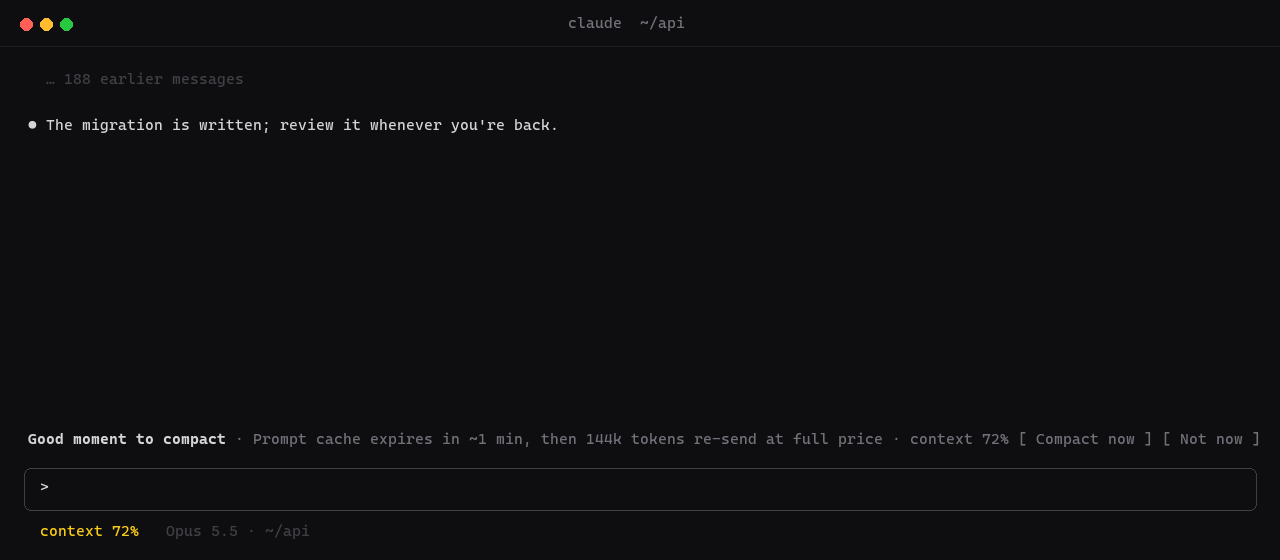
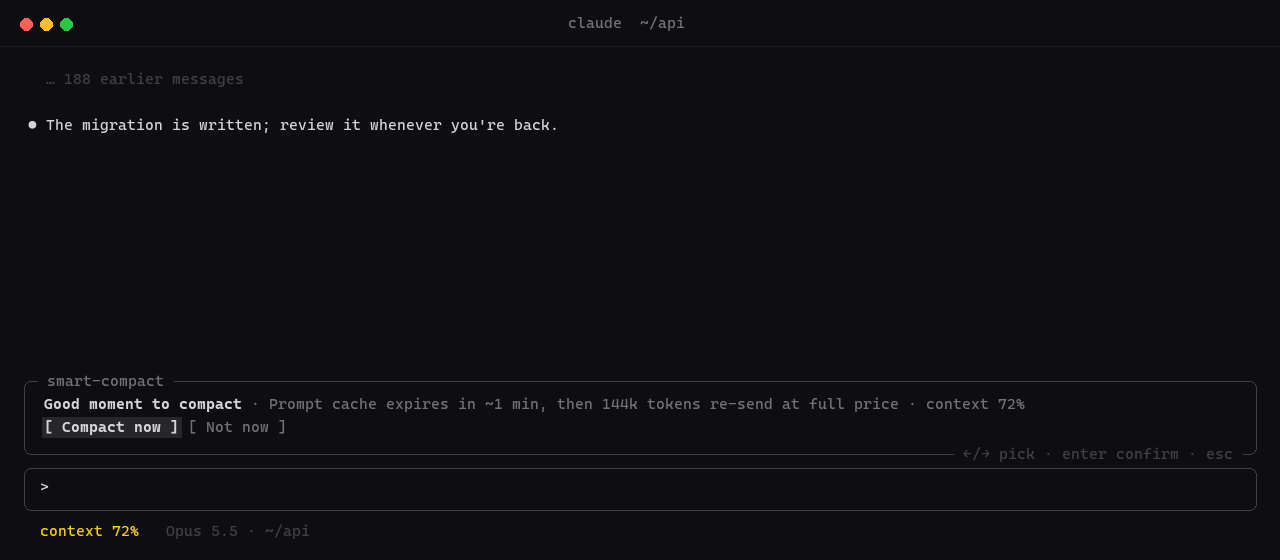
docs: show the focused dialog and the headless fallback

Changed region(s): [[0.0, 0.6679, 0.6875, 0.8196], [0.2188, 0.6982, 0.8125, 0.7286], [0.7188, 0.7589, 0.9688, 0.8196]]

diff --git a/scripts/demo.py b/scripts/demo.py
@@ -1,6 +1,6 @@
-"""Draws docs/demo.gif and docs/cache.png: a Claude Code session with the smart-compact band.
+"""Draws docs/demo.gif and docs/cache.png: a Claude Code session with the smart-compact dialog.
 
-The band follows hooks/register.tsx (lead, reason, context, two buttons) and its texts are the
+The dialog follows hooks/register.tsx (lead, reason, context, two buttons) and its texts are the
 mod's own, so the demo cannot drift far from what the mod draws.
 Needs Pillow and ffmpeg. Run from the repo root: python scripts/demo.py
 """
@@ -58,17 +58,35 @@ def spans(d, x, y, parts):
     return x
 
 
-def button(d, x, y, label, pressed=False):
+def button(d, x, y, label, focused=False, pressed=False):
     text = f"[ {label} ]"
-    if pressed:
-        d.rectangle((x - 2, y - 1, x + len(text) * CW + 2, y + LH - 4), fill=PRESSED)
-    return draw_text(d, x, y, text, FG if pressed else DIM, pressed)
+    if focused:
+        d.rectangle((x - 2, y - 1, x + len(text) * CW + 2, y + LH - 4), fill=FAINT if pressed else PRESSED)
+    return draw_text(d, x, y, text, FG if focused else DIM, focused)
 
 
-# The band, as the ui.render hook on AbovePrompt lays it out: one row, gap 1.
-def band(d, x, y, lead, reason, percent, pressed):
-    x = spans(d, x, y, [(lead, FG, True), (f" · {reason} · context {percent}%", DIM, False)])
-    x = button(d, x + CW, y, "Compact now", pressed)
+def titled_box(d, top, bottom, title, hint):
+    d.rounded_rectangle((24, top, W - 24, bottom), radius=7, outline=FAINT)
+    d.rectangle((38, top - 2, 38 + (len(title) + 2) * CW, top + 2), fill=BG)
+    draw_text(d, 38 + CW, top - LH / 2 + 3, title, DIM)
+    left = W - 38 - (len(hint) + 2) * CW
+    d.rectangle((left, bottom - 2, W - 38, bottom + 2), fill=BG)
+    draw_text(d, left + CW, bottom - LH / 2 + 3, hint, FAINT)
+
+
+# The dialog, as the ui.render hook on the Pane lays it out: one row, gap 1, the
+# first button focused, the keys held until Enter or Esc.
+def dialog(d, lead, reason, percent, pressed):
+    text = [(lead, FG, True), (f" · {reason} · context {percent}%", DIM, False)]
+    buttons = len("[ Compact now ] [ Not now ]") + 1
+    wraps = 44 + (sum(len(t) for t, _, _ in text) + buttons) * CW > W - 44
+    extra = LH if wraps else 0
+    titled_box(d, H - 156 - extra, H - 106, "smart-compact", "←/→ pick · enter confirm · esc")
+    y = H - 142 - extra
+    x = spans(d, 44, y, text)
+    if wraps:
+        x, y = 44 - CW, y + LH
+    x = button(d, x + CW, y, "Compact now", focused=True, pressed=pressed)
     button(d, x + CW, y, "Not now")
 
 
@@ -86,7 +104,7 @@ def frame(state):
         y += LH
 
     if state.get("band"):
-        band(d, 28, H - 130, *state["band"], state.get("pressed", False))
+        dialog(d, *state["band"], state.get("pressed", False))
 
     d.rounded_rectangle((24, H - 92, W - 24, H - 50), radius=7, outline=FAINT)
     draw_text(d, 40, H - 82, "> " + state.get("typing", ""), FG)

diff --git a/README.md b/README.md
@@ -13,7 +13,7 @@
 
 <p align="center">Auto-compact waits until the context is full, and that usually lands mid-task.<br>smart-compact offers it at the right moments: when work has just landed, before the prompt cache expires,<br>or when Claude itself says it is done with what came before.</p>
 
-<img alt="Claude runs the tests, commits, then calls request_compact with what the summary must keep; when the turn ends a band above the prompt reads 'Claude wants to compact · token refactor shipped · context 74%' with Compact now and Not now; one press and the conversation is compacted, context back to 9%" src="docs/demo.gif">
+<img alt="Claude runs the tests, commits, then calls request_compact with what the summary must keep; when the turn ends a dialog above the prompt reads 'Claude wants to compact · token refactor shipped · context 74%' with Compact now focused and Not now; Enter and the conversation is compacted, context back to 9%" src="docs/demo.gif">
 
 ## Install
 
@@ -47,7 +47,7 @@ claude plugin uninstall smart-compact@smart-compact
 
 ## When it speaks up
 
-| Moment | Band above the prompt | Why then |
+| Moment | The offer reads | Why then |
 |---|---|---|
 | Claude calls `request_compact` | **Claude wants to compact** · its reason | Claude knows when a task is finished better than a token counter does |
 | A `git commit` lands | **Good moment to compact** · You just committed | The work is saved; the turns that led to it are rarely needed verbatim |
@@ -59,7 +59,7 @@ The offer opens as a small dialog above the prompt that already has the keyboard
 (click it or `ctrl+x tab` first). Sending a new prompt clears either.
 Nothing shows while the context is under the threshold, and nothing fires inside subagents.
 
-<img alt="The band after a few idle minutes: 'Good moment to compact · Prompt cache expires in ~1 min, then 144k tokens re-send at full price · context 72%'" src="docs/cache.png">
+<img alt="The dialog after a few idle minutes: 'Good moment to compact · Prompt cache expires in ~1 min, then 144k tokens re-send at full price · context 72%'" src="docs/cache.png">
 
 ## Claude can ask for it
 
@@ -67,14 +67,14 @@ smart-compact gives Claude a tool, `request_compact`, with two fields:
 
 | Field | |
 |---|---|
-| `reason` | One line: why now is a good moment. Shown on the band. |
+| `reason` | One line: why now is a good moment. Shown in the offer. |
 | `instructions` | What the summary must keep: open TODOs, file paths, decisions. Passed to the compaction. |
 
 The tool's description tells Claude to call it at a natural boundary (a task finished and committed, a
 plan written down, a switch to an unrelated topic) and never mid-task. A request while the context is under
 the threshold is turned down with a note telling Claude to keep working, so it cannot compact a short session.
 
-By default a request only offers the band. Set `onRequest` to `auto` and it compacts as soon as the turn ends.
+By default a request only offers the compact. Set `onRequest` to `auto` and it compacts as soon as the turn ends.
 
 ## Why the cache matters
 
@@ -92,7 +92,7 @@ In the plugin's options under `/plugin`:
 
 | Setting | Default | |
 |---|---|---|
-| `onRequest` | `ask` | `ask`: show the band when Claude requests a compact. `auto`: compact as soon as the turn ends. |
+| `onRequest` | `ask` | `ask`: offer it when Claude requests a compact. `auto`: compact as soon as the turn ends. |
 | `minPercent` | `40` | Context fill below which nothing is suggested and Claude's requests are turned down |
 | `cacheTtlMinutes` | `5` | Set `60` if your plan uses the 1-hour cache |
 | `idleCompact` | `false` | Compact on its own a minute before the cache expires, instead of only suggesting it |
@@ -103,9 +103,11 @@ A Claude Code mod in two files ([hooks/register.tsx](hooks/register.tsx), [hooks
 
 - `tool.call` on Bash and PowerShell watches for a commit or a green test run
 - `turn.complete` decides whether to suggest, compacts on an `auto` request, and starts the cache timer
-- `prompt.submit` cancels the timer and clears the band
-- `$.tool.register` adds `request_compact`, and `$.session.compact` runs the compaction with Claude's instructions
-- a `ui.render` hook on `AbovePrompt` draws the band, in the terminal and the desktop app
+- `prompt.submit` cancels the timer and clears the offer
+- `$.tool.register` adds `request_compact`, and `$.session.compact` runs the compaction with Claude's instructions;
+  where that is not available (the desktop app's Code tab, the SDK) it queues your own `/compact <instructions>`
+- `$.ui.open` places the dialog, drawn by a `ui.render` hook on its `Pane`; a hook on `AbovePrompt` draws the band
+  where no dialog fits
 
 Compaction always waits for the turn to end; smart-compact never interrupts Claude mid-answer.
 
